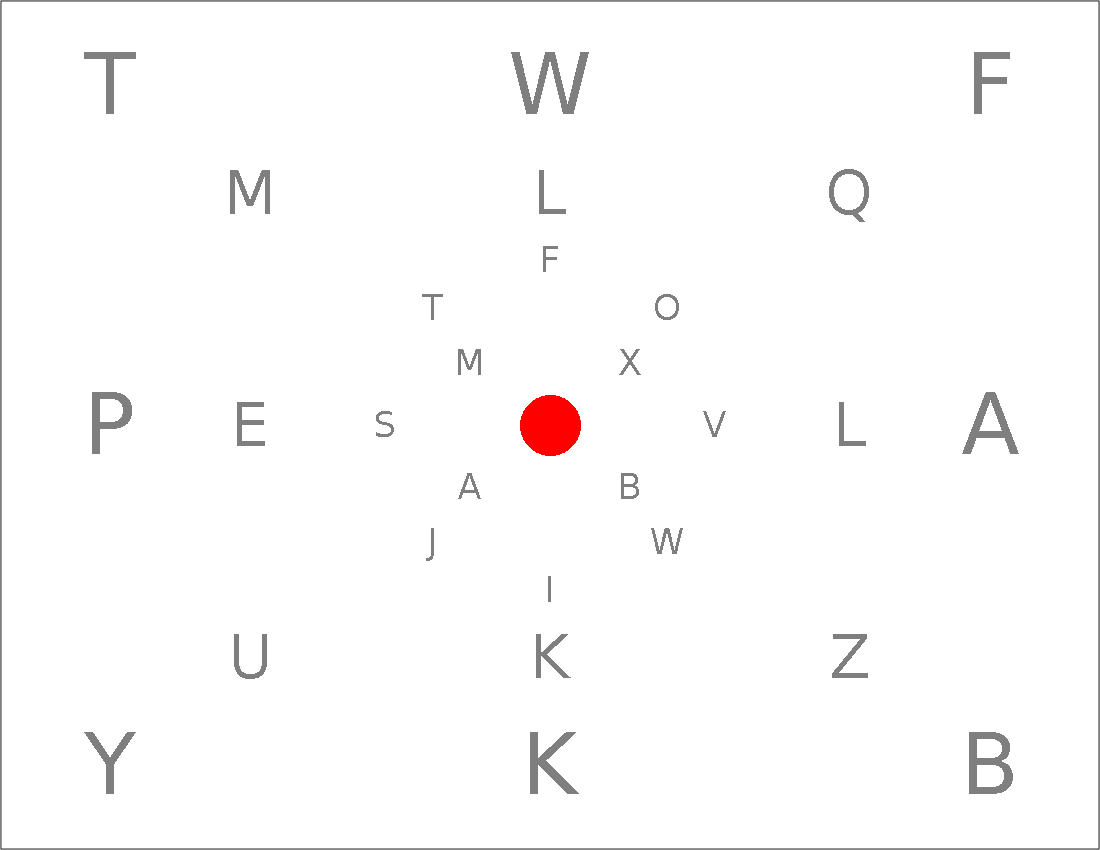
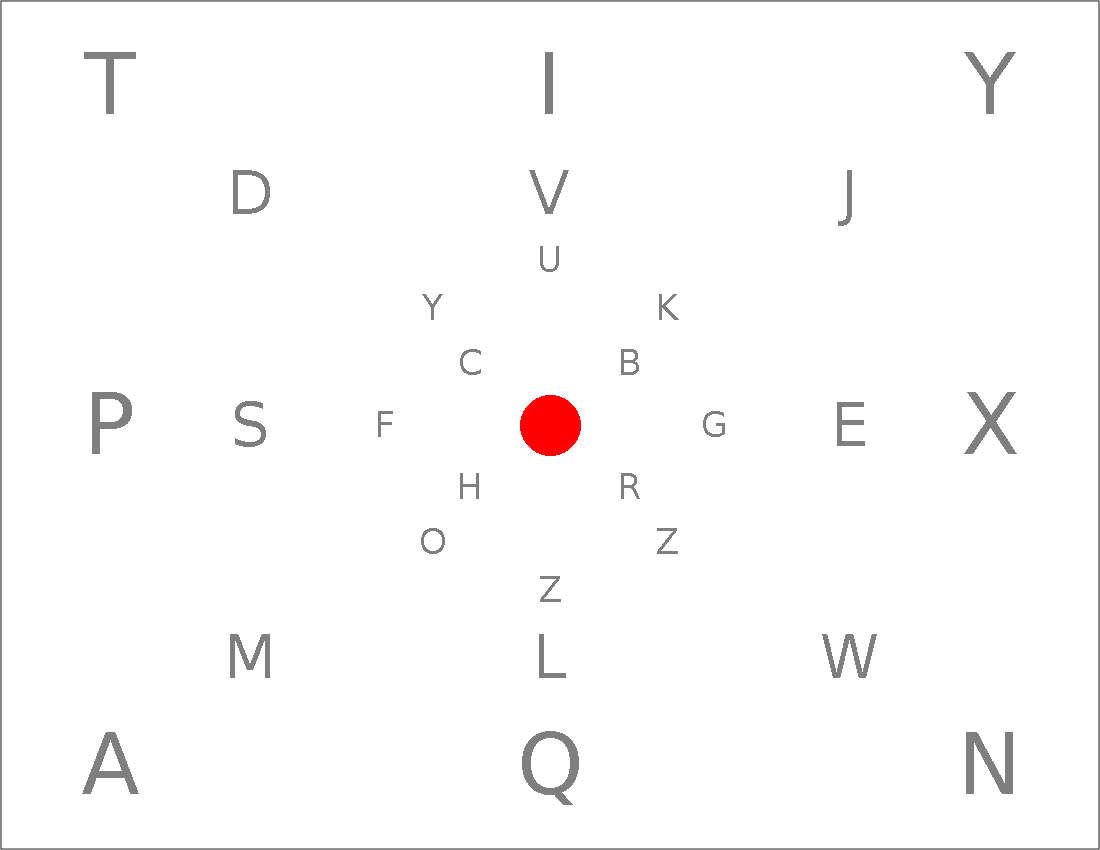
Fix incomplete alphabet issue.

diff --git a/peripheral_awareness/peripheral_awareness.py b/peripheral_awareness/peripheral_awareness.py
@@ -2,46 +2,52 @@ import sympy
 from PIL import Image, ImageDraw, ImageFont
 from random import shuffle
 
-letters = []
+letters: list = []
+count: int = 0
 
 
 def rl() -> str:
     global letters
-    if len(letters) == 0:
-        alphabet: list[str] = [
-            "A",
-            "B",
-            "C",
-            "D",
-            "E",
-            "F",
-            "G",
-            "H",
-            "I",
-            "J",
-            "K",
-            "L",
-            "M",
-            "N",
-            "O",
-            "P",
-            "Q",
-            "R",
-            "S",
-            "T",
-            "U",
-            "V",
-            "W",
-            "X",
-            "Y",
-            "Z",
-        ]
+    global count
+    alphabet: list[str] = [
+        "A",
+        "B",
+        "C",
+        "D",
+        "E",
+        "F",
+        "G",
+        "H",
+        "I",
+        "J",
+        "K",
+        "L",
+        "M",
+        "N",
+        "O",
+        "P",
+        "Q",
+        "R",
+        "S",
+        "T",
+        "U",
+        "V",
+        "W",
+        "X",
+        "Y",
+        "Z",
+    ]
+    if count > 27:
+        count = 0
         letters = alphabet
-        shuffle(letters)
+    if len(letters) == 0:
         print(letters)
+        letters = alphabet
+    shuffle(letters)
     if len(letters) > 0:
         l: str = letters.pop()
-    print(l)
+    print(f"{l}: count = {count}")
+    count += 1
     return l
 
 
@@ -159,7 +165,7 @@ def peripheral_awareness():
         draw.text((s[0], s[1]), text=rl(), font=font, anchor="mm")
 
     image.save(
-        "peripheral_awareness/peripheral_awareness.png",
+        "static/peripheral_awareness.png",
     )
 
     # image.show()
